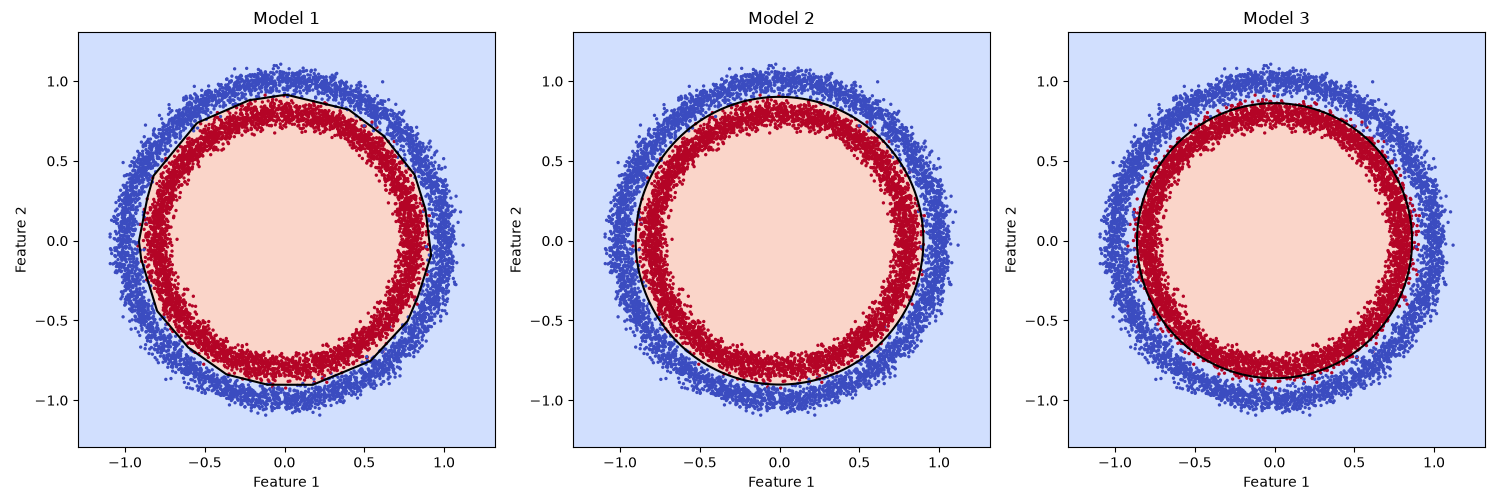
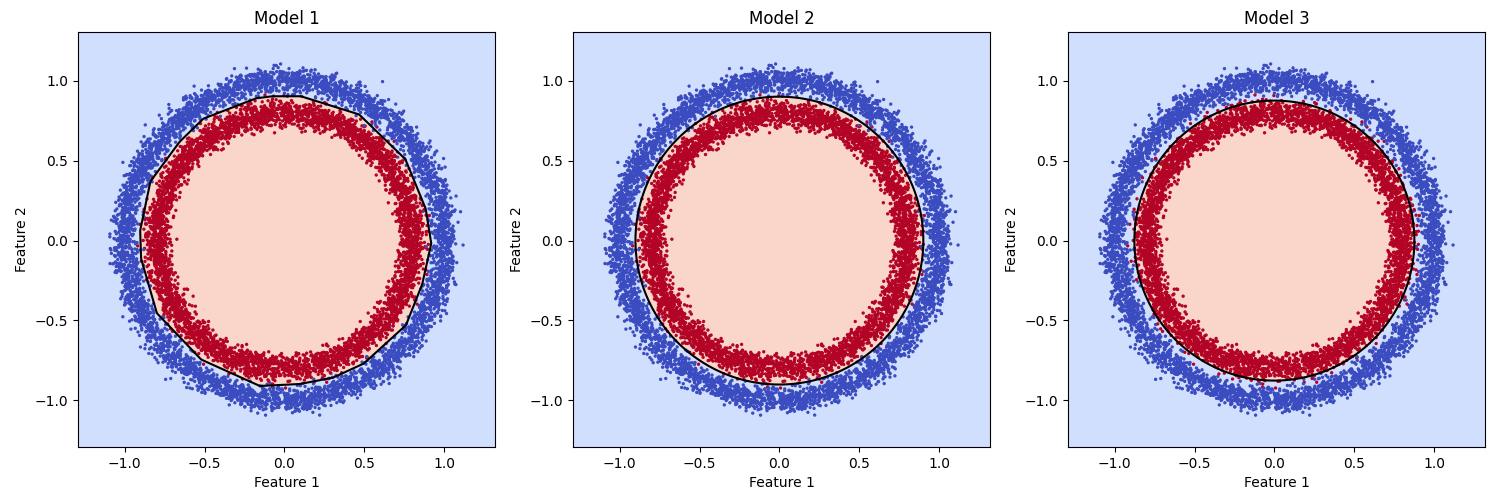
fix: Set default epoch in the training loop to 20 as the earlier value of 100 made experiment less reliable.

diff --git a/training/trainer.py b/training/trainer.py
@@ -7,7 +7,7 @@ def train_loop(model,
                X_test,
                y_test,
                device,
-               epochs=100,
+               epochs=20,
                lr=0.001,
                batch_size=128):
     """
